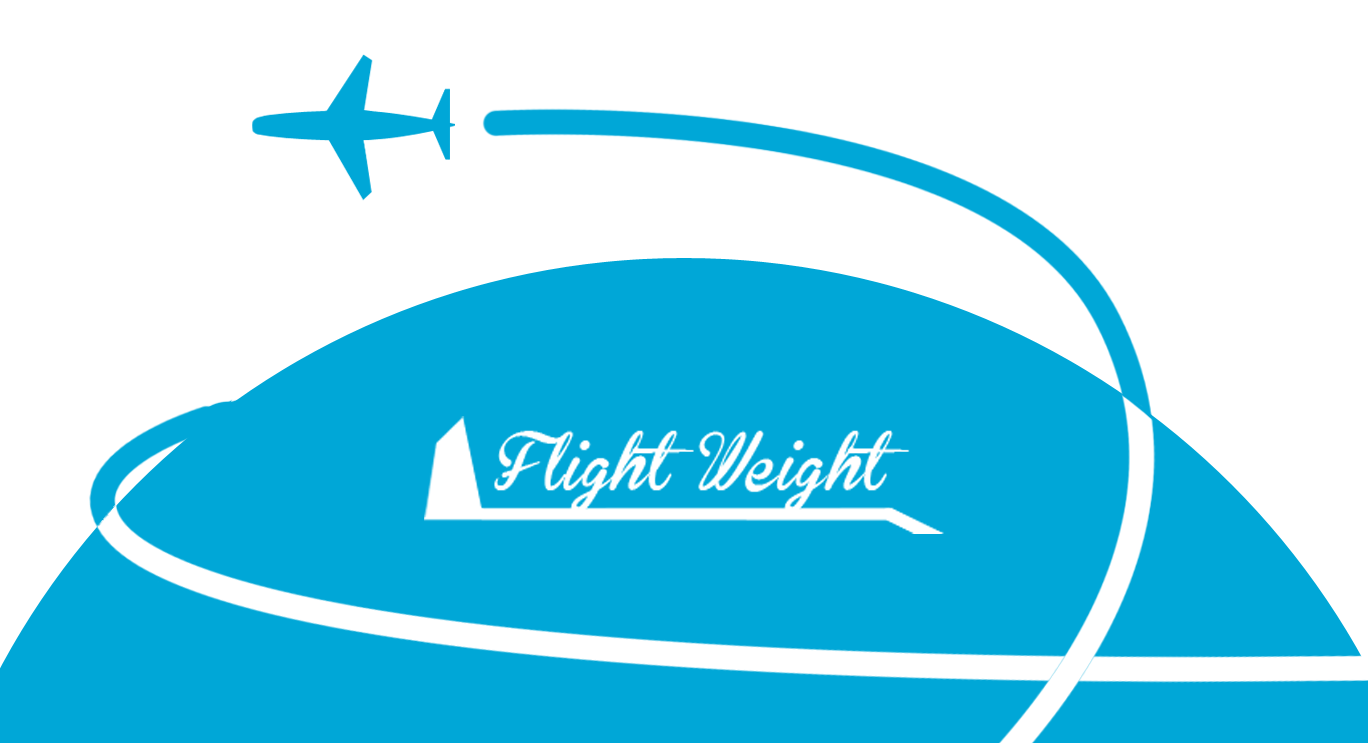
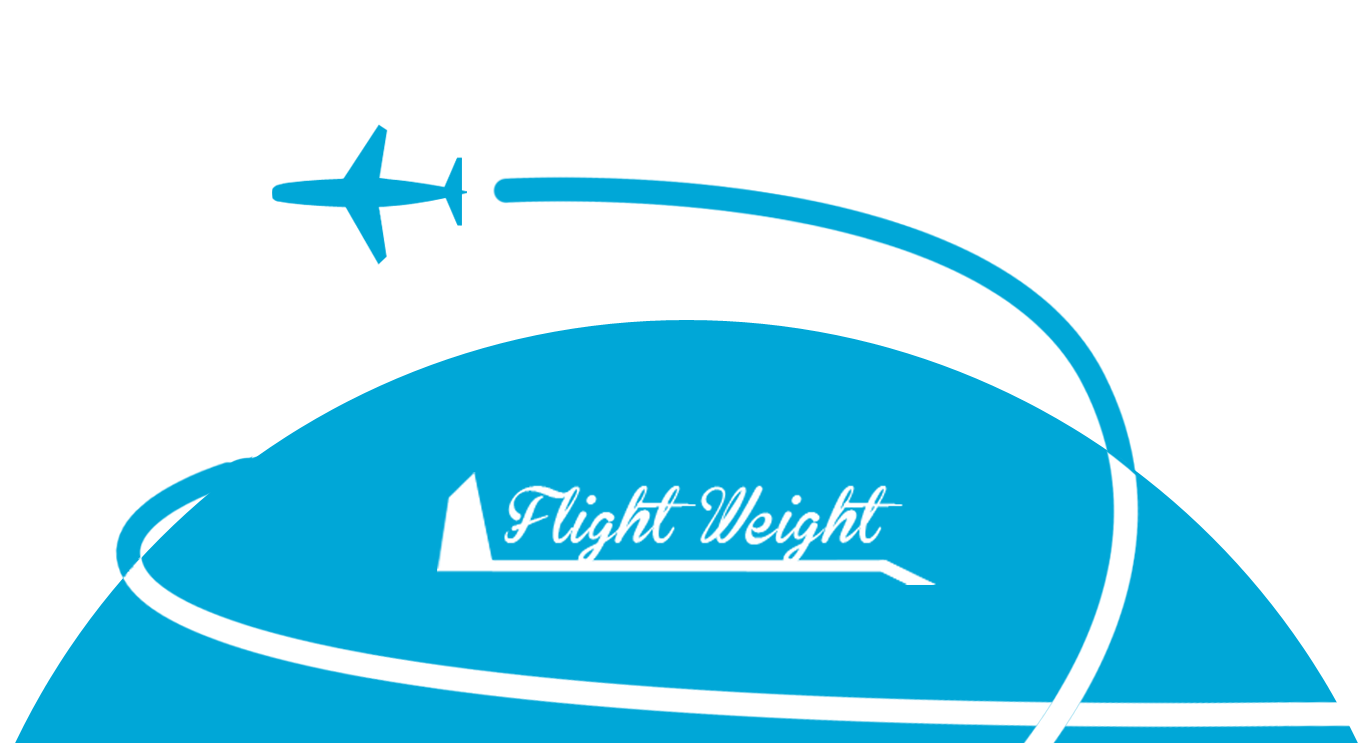
log in / fonts

Changed region(s): [[0.0, 0.0619, 1.0, 1.0], [0.307, 0.5572, 0.6754, 0.8048]]

diff --git a/app/assets/stylesheets/global.css.scss b/app/assets/stylesheets/global.css.scss
@@ -119,13 +119,13 @@ html, body {
   color:  #00a7d7;
 }
 
-.img-foot {
+/*.img-foot {
     max-width: 127.8%;
     max-height: 130%;
     overflow: visible;
     padding-top: 0;
     padding-bottom: 0; 
-}
+}*/
 
 .spread {
   max-width: 100%;
@@ -327,4 +327,28 @@ html, body {
         }
 
 }
+}
+
+.nav .navbar-nav .navbar-right li {
+  float: right;
+}
+
+.go-left {
+  float: left;
+}
+
+.go-right {
+  float: right;
+}
+.foot-er {
+  width: 100%;
+  //background: url('Footer3.png');
+  padding: 0 0;
+  overflow: hidden;
+  color: #fff;
+  position: relative;
+}
+
+.navbar-left li {
+    font-weight: bold;
 }
